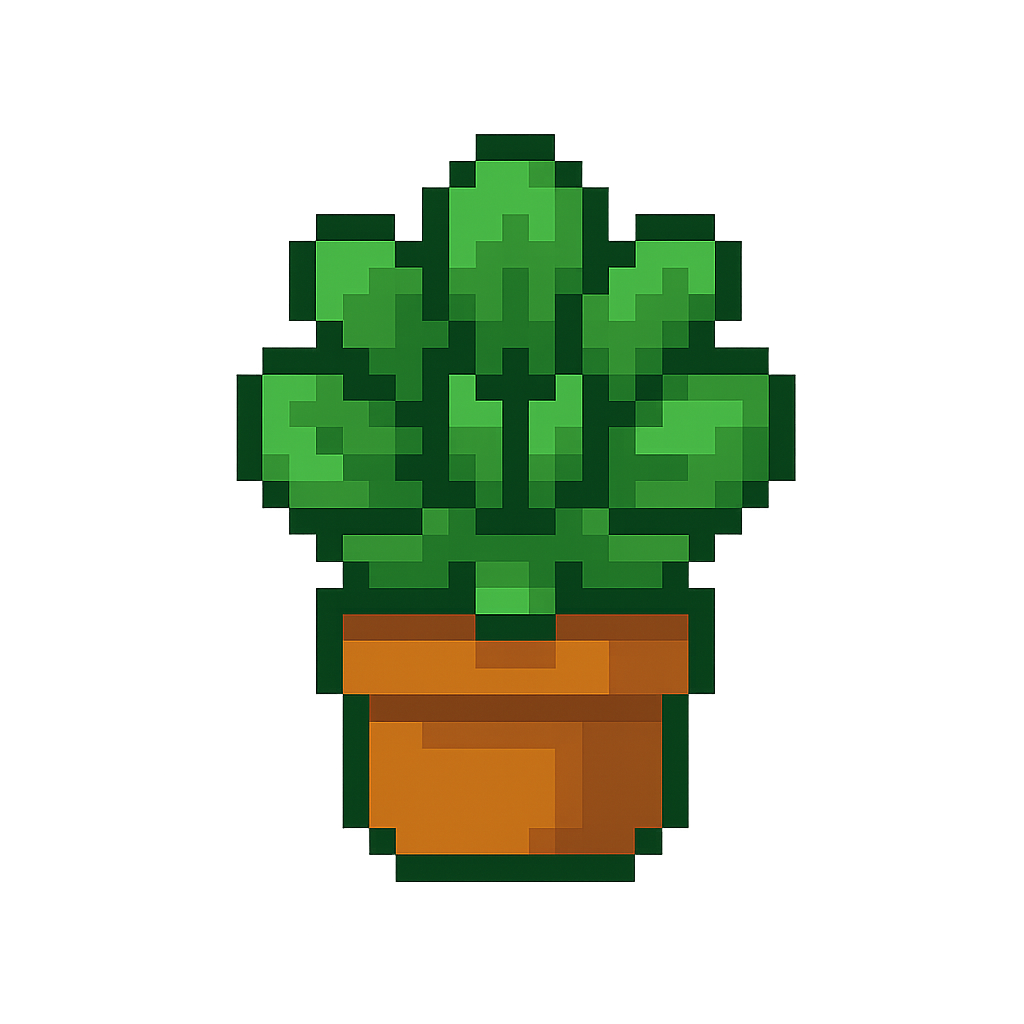
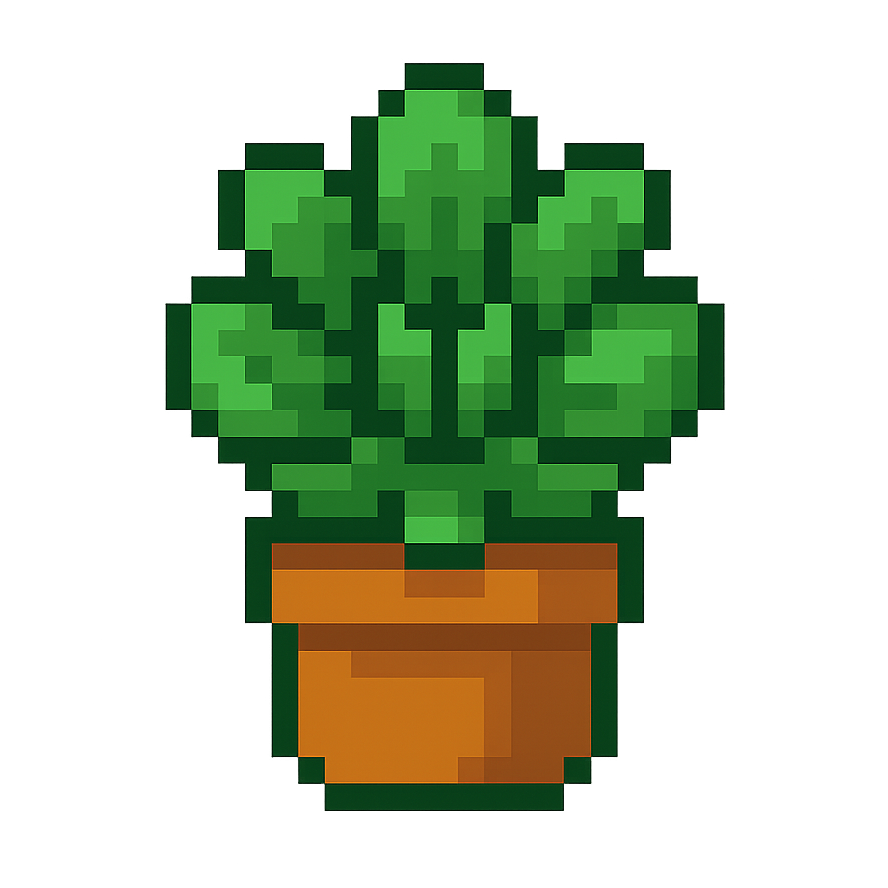
added plant choosing functionality

Changed region(s): [[0.1824, 0.0608, 0.8209, 0.9122]]

diff --git a/public/script.js b/public/script.js
@@ -108,6 +108,12 @@ var infoContent = document.getElementById("info-content");
 var plantForm = document.getElementById("plant-form"); // the form itself
 plantForm.addEventListener("submit", plantSubmit); // to submit your plant diary entry
 var plantConfirmation = document.getElementById("plant-confirmation"); // confirmation message
+var plantSelector = document.getElementById("plant-selector"); // choose which plant
+var plantChoices = document.getElementsByClassName("plant-choice");
+for (let plantChoice of plantChoices) {
+    plantChoice.addEventListener("click", choosePlantImg);
+}
+var selectedPlantImg = null; 
 var entries = document.getElementById("entries"); // to update the entries shown in the page
 var allPlants = []; // holds all plalnt entries
 var tilePlants = []; // holds all plants on island
@@ -167,6 +173,12 @@ async function plantSubmit(e) { // handle submitting the plant form
         tileID = -1; // will not be placed on island
     }
 
+    var image;
+    if (selectedPlantImg != null)
+        image = selectedPlantImg;
+    else 
+        image = "assets/flowers/bush.png";
+
     // create data entry object
     const dataEntry = {
         // e.target is the form that was submitted
@@ -177,7 +189,7 @@ async function plantSubmit(e) { // handle submitting the plant form
         entry: e.target.entry.value,
         // taken straight from copilot lols, takes date and turns it into date str
         date: new Date().toISOString().split("T")[0],
-        image: "assets/flowers/succulent.png" // placeholder image for now, will add user choosing functionality later
+        image: image
     }
 
     await fetch("/plants", { // send request to /plant endpoint in server.js (express server)
@@ -188,13 +200,35 @@ async function plantSubmit(e) { // handle submitting the plant form
         body: JSON.stringify(dataEntry) // convert dataEntry to JSON str
     });
 
+    // reset
     txt.innerHTML = "";
-
     await updateEntriesInPage();
-
     plantForm.reset();
-
+    selectedPlantImg = null;
+    for (let plantChoice of plantChoices) {
+        plantChoice.style.backgroundColor = "transparent";
+    }
     plantConfirmation.innerHTML = "planting successful!";
+}
+
+function choosePlantImg() {
+    for (let plantChoice of plantChoices) {
+        plantChoice.style.backgroundColor = "transparent";
+    }
+    this.style.backgroundColor = "#7a828a";
+    if (this.id === "blue") {
+        selectedPlantImg = "assets/flowers/blue_flower.png";
+    } else if (this.id === "orange") {
+        selectedPlantImg = "assets/flowers/orange_flower.png";
+    } else if (this.id === "yellow") {
+        selectedPlantImg = "assets/flowers/yellow_flower.png";
+    } else if (this.id === "pink") {
+        selectedPlantImg = "assets/flowers/pink_flower.png";
+    } else if (this.id === "succulent") {
+        selectedPlantImg = "assets/flowers/succulent.png";
+    } else if (this.id === "bush") {
+        selectedPlantImg = "assets/flowers/bush.png";
+    }
 }
 
 /* PLANT-SPECIFIC SETUP */

diff --git a/public/index.html b/public/index.html
@@ -42,6 +42,16 @@
                     <br/>
                     <textarea placeholder="entry" id="entry"></textarea>
                     <br/>
+                    <div id = "plant-selector">
+                        <div id = "select-label">choose</div>
+                        <img src = "assets/flowers/blue_flower.png" id = "blue" class = "plant-choice">
+                        <img src = "assets/flowers/orange_flower.png" id = "orange" class = "plant-choice">
+                        <img src = "assets/flowers/yellow_flower.png" id = "yellow" class = "plant-choice">
+                        <img src = "assets/flowers/pink_flower.png" id = "pink" class = "plant-choice">
+                        <img src = "assets/flowers/succulent.png" id = "succulent" class = "plant-choice">
+                        <img src = "assets/flowers/bush.png" id = "bush" class = "plant-choice">
+                    </div>
+                    <br/>
                     <button type="submit">plant entry!</button>
                     <p id = plant-confirmation></p>
                 </form>

diff --git a/public/style.css b/public/style.css
@@ -83,7 +83,7 @@ input, textarea {
     margin-bottom: 3px;
     font-family: 'standard', 'sans-serif';
     font-size: 20px;
-    background-color: rgb(190, 193, 194);
+    background-color: #bec1c2;
     border-style: solid;
     border-color: #7a828a;
 }
@@ -94,7 +94,7 @@ button {
     margin-bottom: 3px;
     font-family: 'standard', 'sans-serif';
     font-size: 20px;
-    background-color: rgb(223, 226, 226);
+    background-color: #dfe2e2;
     border-style: groove;
     border-color: #7a828a;
 }
@@ -186,6 +186,25 @@ nav {
 /* Toolkit features */
 #weeding-form, #watering-form, #cancel-erase, #cancel-water, #watering-update-form {
     display: none;
+}
+
+#plant-selector {
+    align-items: center;
+    display: inline-flex;
+    border-style: solid;
+    background-color: #bec1c2;
+    border-color: #7a828a;
+    border-width: 1px;
+    color: #7a828a;
+}
+.plant-choice {
+    width: 15%;
+    height: auto;
+    max-width: 50px;
+}
+#select-label {
+    padding-left: 3px;
+    font-size: 20px;
 }
 
 /* Play area styles */
